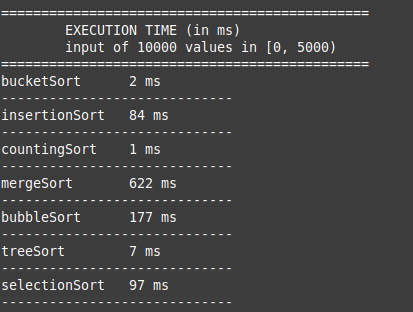
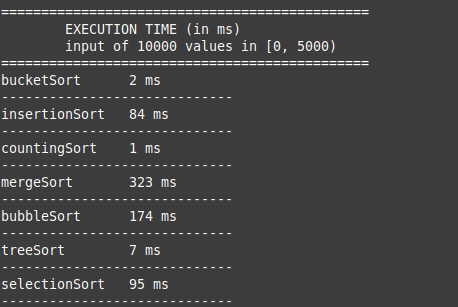
update recursive merge sort

diff --git a/SortingAlg.go b/SortingAlg.go
@@ -344,8 +344,7 @@ func merge(intArray []int, p int, q int, r int){
 	var i=0;
 	var j=0;
 	var k=0;
-
-	intArray_Support:=make([]int, len(intArray))
+	intArray_Support:=make([]int, len(intArray)-p)
 
 	i=p;
 	j=q+1;
